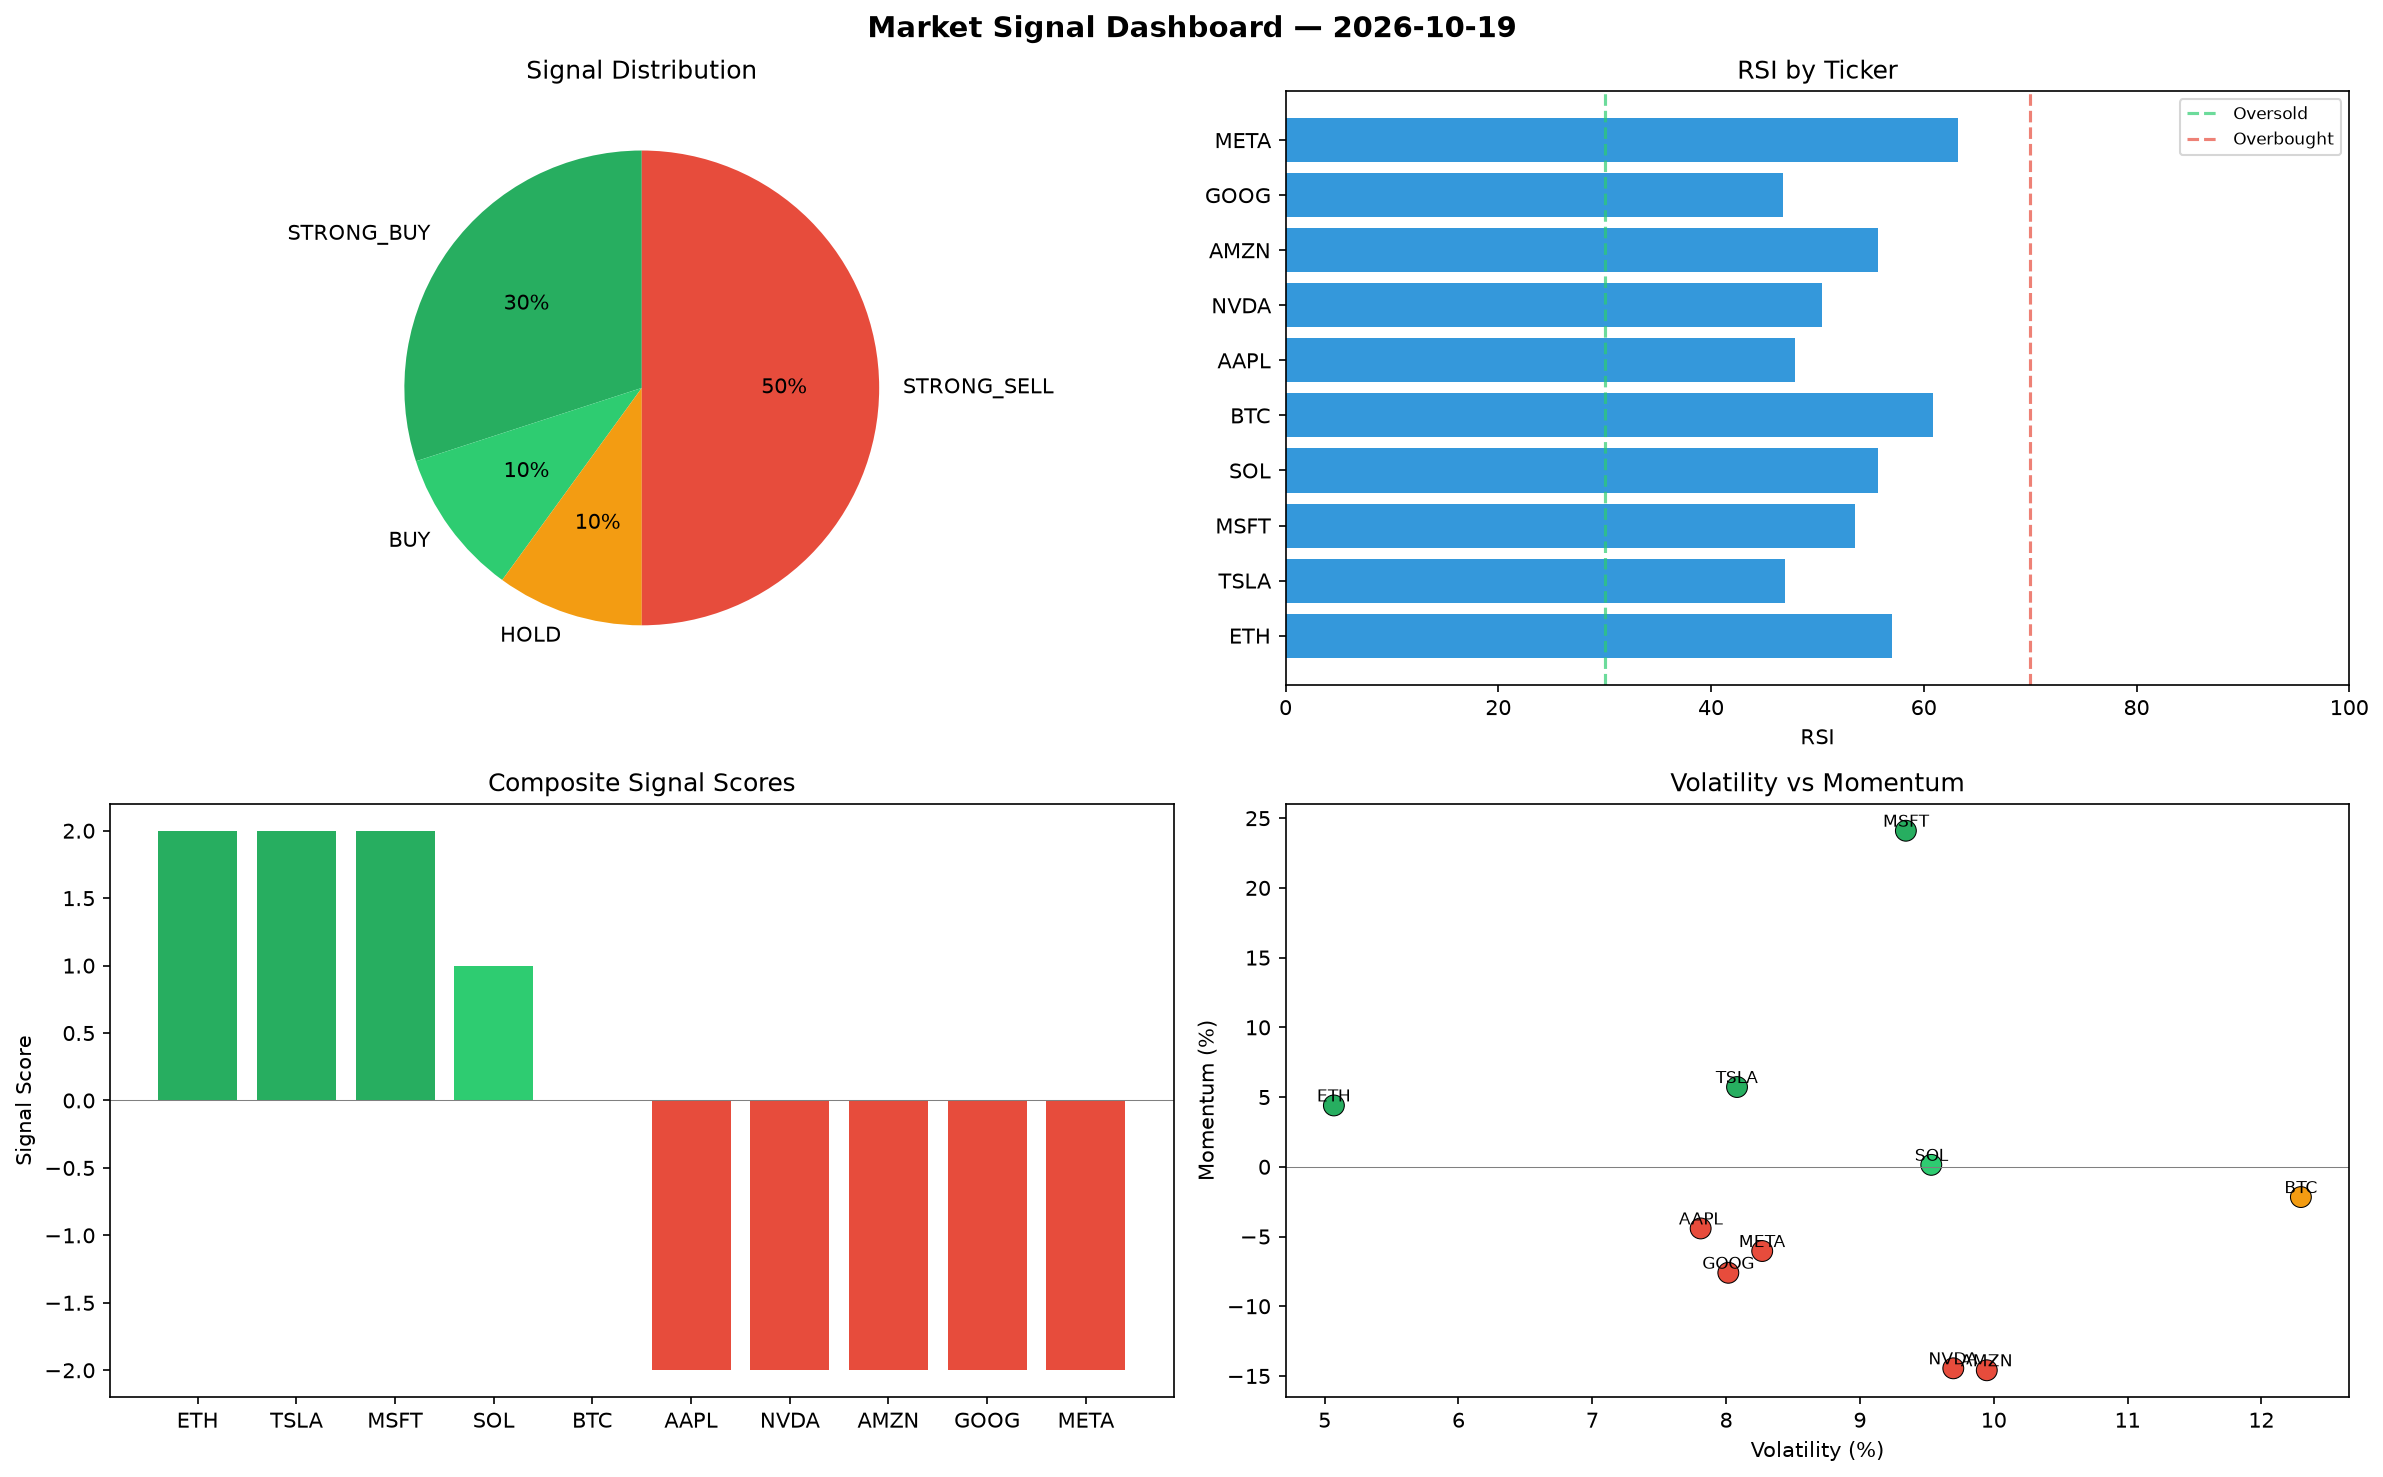
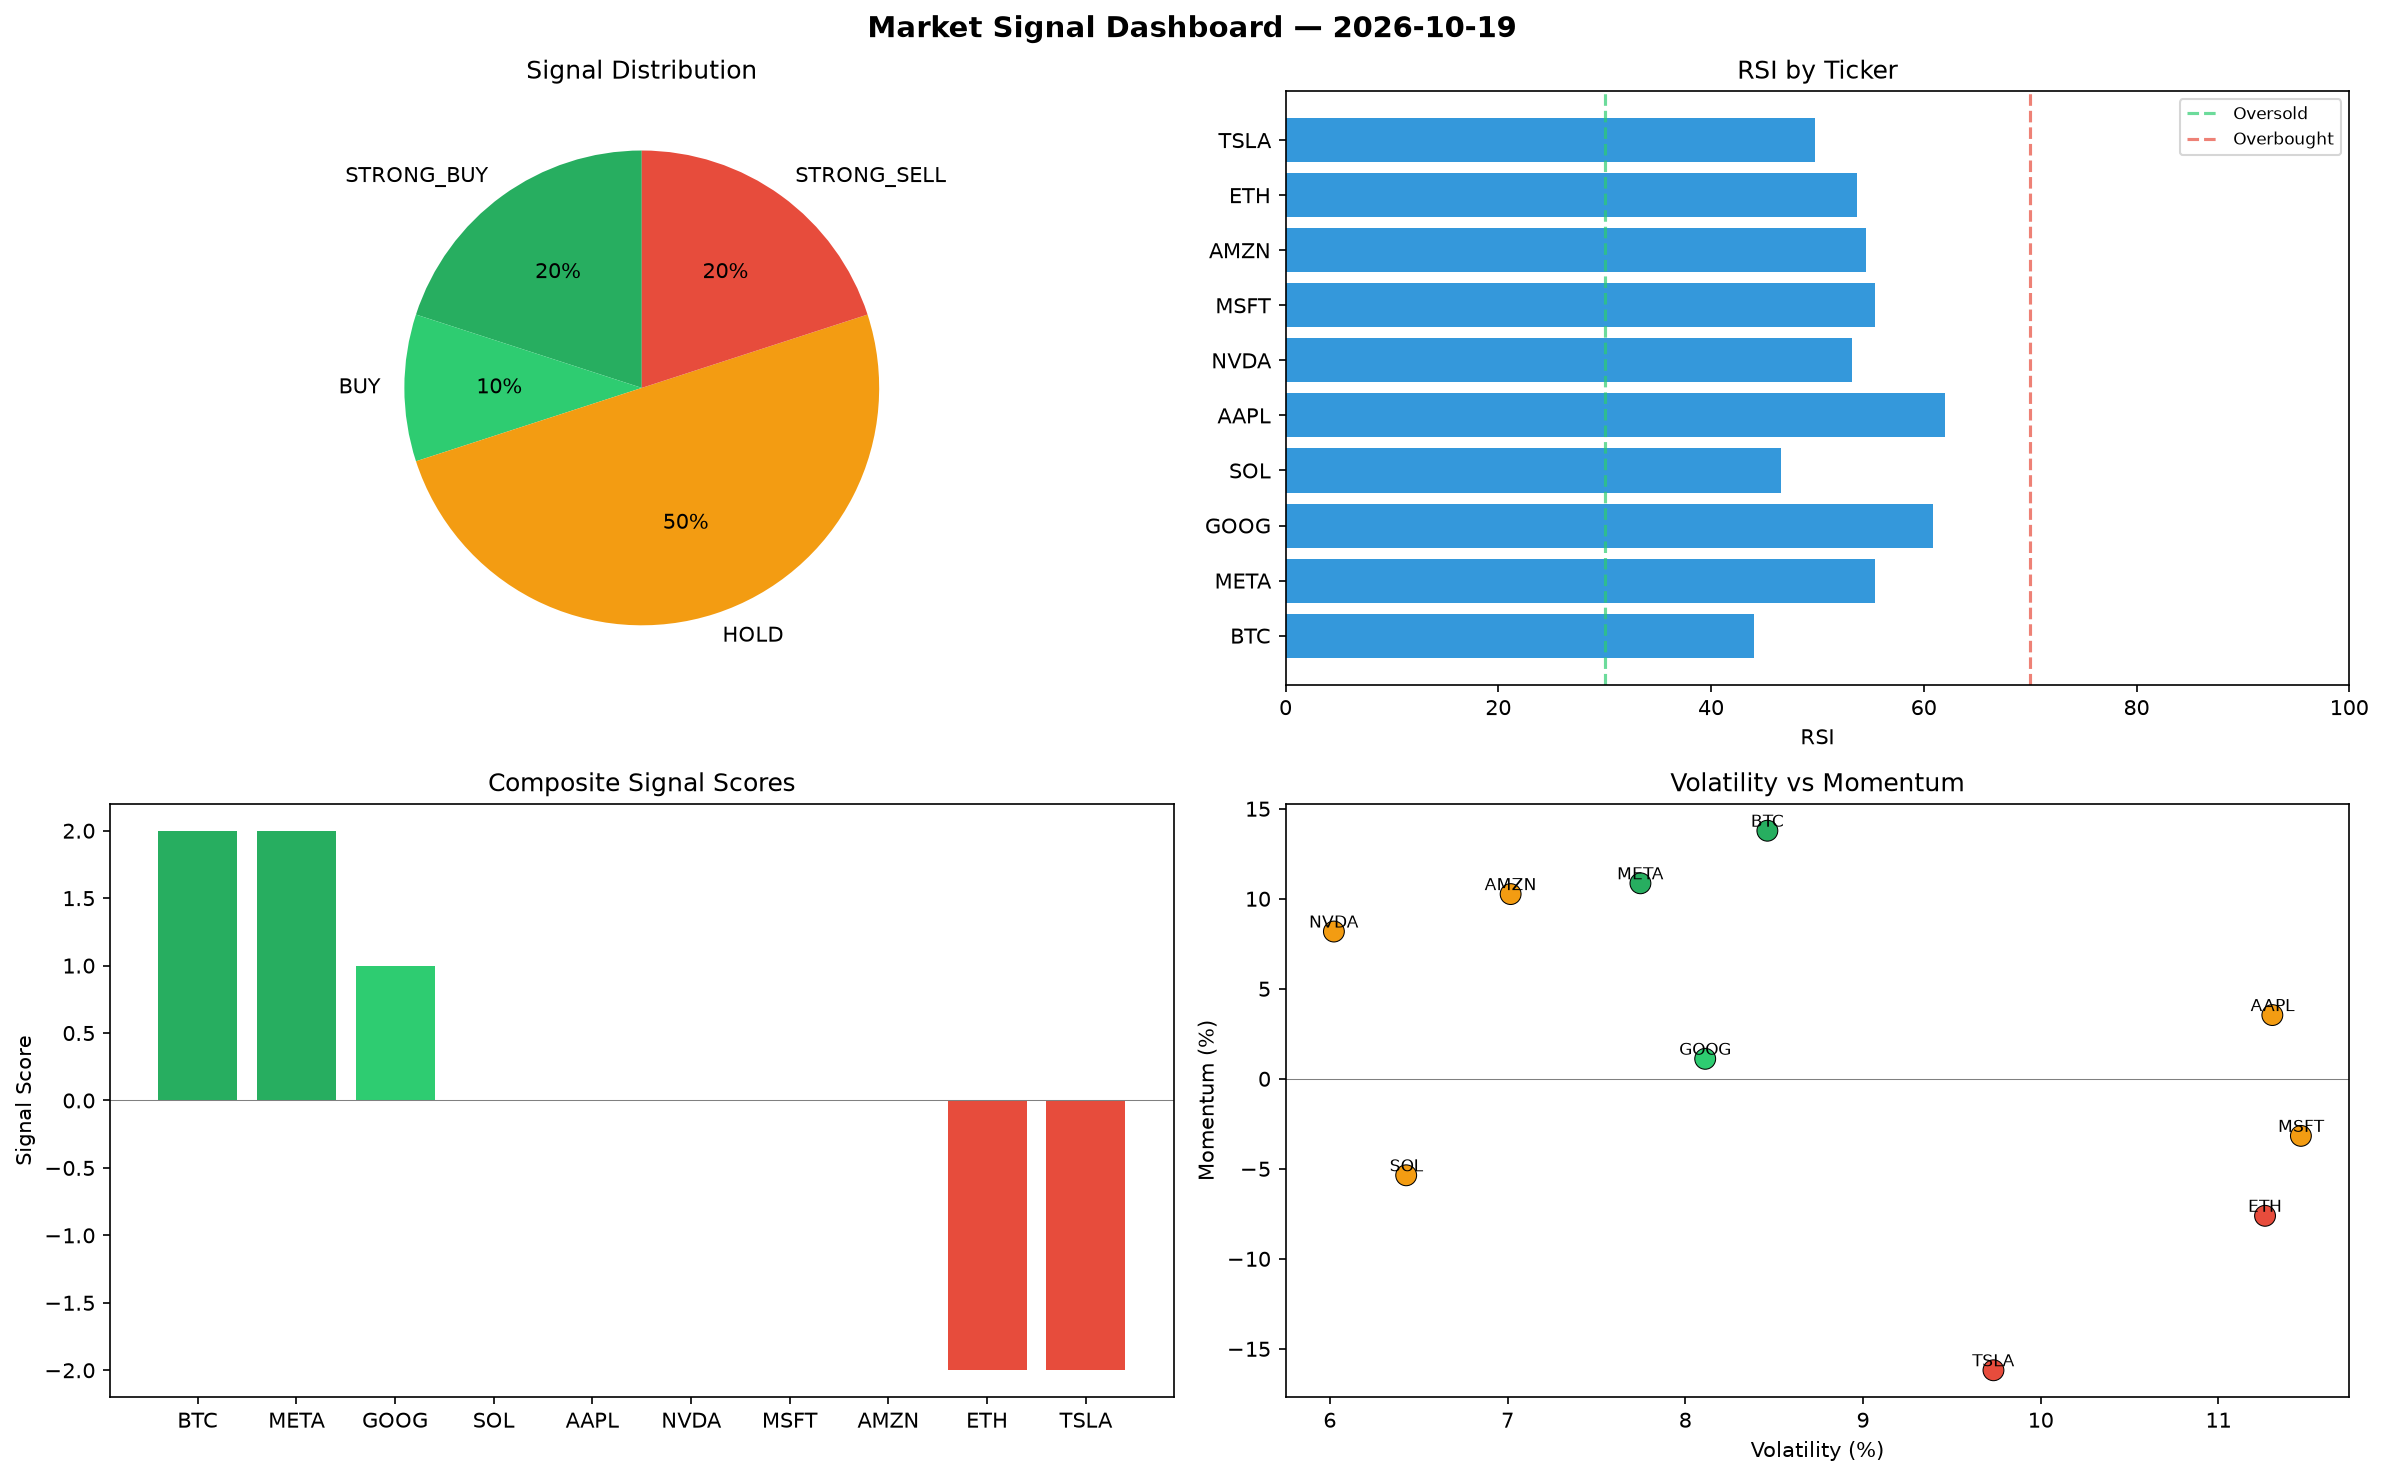
automated-bots: market signals 2026-10-19T20:05

diff --git a/logs/2026-10-19.md b/logs/2026-10-19.md
@@ -1,6 +1,6 @@
 # Market Signal Report — 2026-10-19
 
-**Run ID:** `92943912a0` | **Buy:** 4 | **Sell:** 5 | **Hold:** 1
+**Run ID:** `d660e76401` | **Buy:** 3 | **Sell:** 2 | **Hold:** 5
 
 ![Dashboard](2026-10-19_dashboard.png)
 
@@ -8,28 +8,28 @@
 
 | Ticker | Price | Signal | Score | RSI | Momentum | Confidence |
 |--------|-------|--------|-------|-----|----------|------------|
-| ETH | $3987.65 | **STRONG_BUY** | 2 | 57.0 | 0.044 | 0.5 |
-| TSLA | $3031.19 | **STRONG_BUY** | 2 | 46.96 | 0.0572 | 0.5 |
-| MSFT | $2293.43 | **STRONG_BUY** | 2 | 53.52 | 0.241 | 0.5 |
-| SOL | $4487.17 | **BUY** | 1 | 55.7 | 0.0014 | 0.25 |
-| BTC | $3713.79 | **HOLD** | 0 | 60.85 | -0.0217 | 0.0 |
-| AAPL | $2178.73 | **STRONG_SELL** | -2 | 47.94 | -0.0442 | 0.5 |
-| NVDA | $1820.24 | **STRONG_SELL** | -2 | 50.46 | -0.1445 | 0.5 |
-| AMZN | $3073.72 | **STRONG_SELL** | -2 | 55.69 | -0.1459 | 0.5 |
-| GOOG | $4468.14 | **STRONG_SELL** | -2 | 46.75 | -0.076 | 0.5 |
-| META | $1492.26 | **STRONG_SELL** | -2 | 63.24 | -0.0604 | 0.5 |
+| BTC | $1261.35 | **STRONG_BUY** | 2 | 44.07 | 0.1378 | 0.5 |
+| META | $1083.44 | **STRONG_BUY** | 2 | 55.38 | 0.1086 | 0.5 |
+| GOOG | $186.54 | **BUY** | 1 | 60.84 | 0.0111 | 0.25 |
+| SOL | $3234.59 | **HOLD** | 0 | 46.59 | -0.0536 | 0.0 |
+| AAPL | $3411.35 | **HOLD** | 0 | 61.98 | 0.0354 | 0.0 |
+| NVDA | $3334.57 | **HOLD** | 0 | 53.22 | 0.0818 | 0.0 |
+| MSFT | $2530.65 | **HOLD** | 0 | 55.38 | -0.0317 | 0.0 |
+| AMZN | $3405.28 | **HOLD** | 0 | 54.54 | 0.1026 | 0.0 |
+| ETH | $3537.6 | **STRONG_SELL** | -2 | 53.73 | -0.0761 | 0.5 |
+| TSLA | $177.76 | **STRONG_SELL** | -2 | 49.82 | -0.1619 | 0.5 |
 
 ## Delta vs Yesterday
 
 | Ticker | Today | Yesterday | Price Change | Signal Changed |
 |--------|-------|-----------|-------------|----------------|
-| ETH | STRONG_BUY | HOLD | 📈 1163.31% | ⚠ YES |
-| TSLA | STRONG_BUY | BUY | 📈 175.15% | ⚠ YES |
-| MSFT | STRONG_BUY | SELL | 📈 184.29% | ⚠ YES |
-| SOL | BUY | BUY | 📈 108.04% | — |
-| BTC | HOLD | STRONG_SELL | 📈 50.66% | ⚠ YES |
-| AAPL | STRONG_SELL | BUY | 📈 12.65% | ⚠ YES |
-| NVDA | STRONG_SELL | SELL | 📉 -33.53% | ⚠ YES |
-| AMZN | STRONG_SELL | STRONG_SELL | 📈 1477.72% | — |
-| GOOG | STRONG_SELL | HOLD | 📈 229.31% | ⚠ YES |
-| META | STRONG_SELL | STRONG_SELL | 📉 -27.71% | — |
+| BTC | STRONG_BUY | STRONG_SELL | 📉 -48.83% | ⚠ YES |
+| META | STRONG_BUY | STRONG_SELL | 📉 -47.52% | ⚠ YES |
+| GOOG | BUY | HOLD | 📉 -86.25% | ⚠ YES |
+| SOL | HOLD | BUY | 📈 49.96% | ⚠ YES |
+| AAPL | HOLD | BUY | 📈 76.38% | ⚠ YES |
+| NVDA | HOLD | SELL | 📈 21.76% | ⚠ YES |
+| MSFT | HOLD | SELL | 📈 213.7% | ⚠ YES |
+| AMZN | HOLD | STRONG_SELL | 📈 1647.91% | ⚠ YES |
+| ETH | STRONG_SELL | HOLD | 📈 1020.73% | ⚠ YES |
+| TSLA | STRONG_SELL | BUY | 📉 -83.86% | ⚠ YES |
